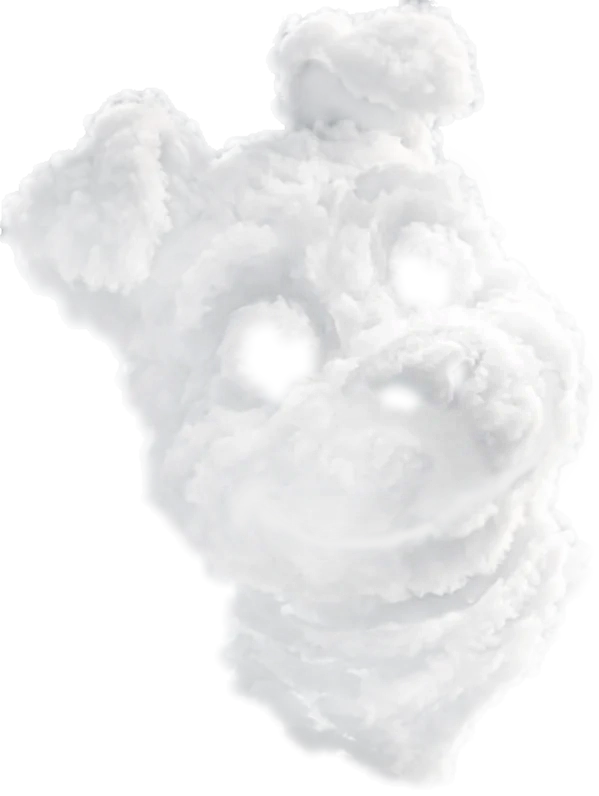
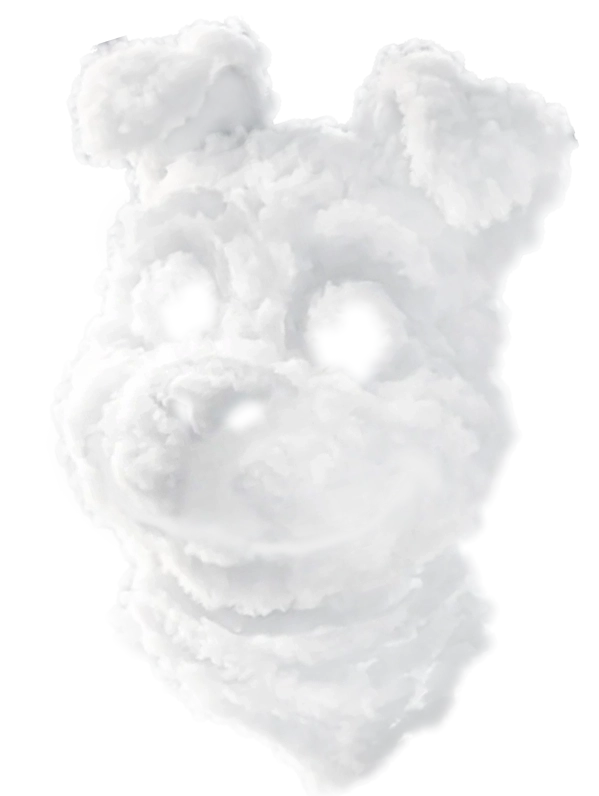
Replace Rita.webp with Sam.webp on cloud 9.

diff --git a/index.html b/index.html
@@ -7,7 +7,7 @@
   <meta name="apple-mobile-web-app-capable" content="yes" />
   <meta name="apple-mobile-web-app-status-bar-style" content="black-translucent" />
   <title>Pick-it</title>
-  <link rel="stylesheet" href="css/game.css?v=cloudloc5" />
+  <link rel="stylesheet" href="css/game.css?v=sam-swap1" />
 </head>
 <body>
   <div id="rotateOverlay" class="rotate-overlay" aria-live="polite">
@@ -96,6 +96,6 @@
       </div>
     </div>
   </div>
-  <script src="js/game.js?v=cloudloc6"></script>
+  <script src="js/game.js?v=sam-swap1"></script>
 </body>
 </html>

diff --git a/web/index.html b/web/index.html
@@ -7,7 +7,7 @@
   <meta name="apple-mobile-web-app-capable" content="yes" />
   <meta name="apple-mobile-web-app-status-bar-style" content="black-translucent" />
   <title>Pick-it</title>
-  <link rel="stylesheet" href="css/game.css?v=cloudloc5" />
+  <link rel="stylesheet" href="css/game.css?v=sam-swap1" />
 </head>
 <body>
   <div id="rotateOverlay" class="rotate-overlay" aria-live="polite">
@@ -96,6 +96,6 @@
       </div>
     </div>
   </div>
-  <script src="js/game.js?v=cloudloc6"></script>
+  <script src="js/game.js?v=sam-swap1"></script>
 </body>
 </html>

diff --git a/css/game.css b/css/game.css
@@ -2739,11 +2739,12 @@ html.is-touch.game-landscape .slot.reward-rita img.done {
   margin-left: -12px !important;
 }
 
-#field .slot.reward-rita.show-special-reward img.done {
+#field .slot.reward-rita.show-special-reward img.done,
+#field .slot.reward-sam.show-special-reward img.done {
   bottom: calc(
     var(--petard-size) * 0.72 * var(--cloud-field-mul) * var(--cloud-face-bottom-mul, 0.06) - 10px
   ) !important;
-  margin-left: 20px !important;
+  margin-left: 0px !important;
 }
 
 #field .slot.reward-hoppy.show-special-reward img.done {

diff --git a/web/css/game.css b/web/css/game.css
@@ -2739,11 +2739,12 @@ html.is-touch.game-landscape .slot.reward-rita img.done {
   margin-left: -12px !important;
 }
 
-#field .slot.reward-rita.show-special-reward img.done {
+#field .slot.reward-rita.show-special-reward img.done,
+#field .slot.reward-sam.show-special-reward img.done {
   bottom: calc(
     var(--petard-size) * 0.72 * var(--cloud-field-mul) * var(--cloud-face-bottom-mul, 0.06) - 10px
   ) !important;
-  margin-left: 20px !important;
+  margin-left: 0px !important;
 }
 
 #field .slot.reward-hoppy.show-special-reward img.done {

diff --git a/js/game.js b/js/game.js
@@ -18,7 +18,7 @@
     5: "Assets/Hoppy.webp",
     6: "Assets/Peggy.webp",
     8: "Assets/Carrie.webp",
-    9: "Assets/Rita.webp",
+    9: "Assets/Sam.webp",
     11: "Assets/Mole.webp",
   };
 
@@ -44,7 +44,7 @@
   }
 
   /** Bump when character PNGs change (GitHub Pages / browser cache). */
-  const REWARD_ASSET_V = "chars-in-assets";
+  const REWARD_ASSET_V = "chars-sam-swap";
 
   function assetWithCacheBust(path) {
     if (!path) return path;

diff --git a/web/js/game.js b/web/js/game.js
@@ -18,7 +18,7 @@
     5: "Assets/Hoppy.webp",
     6: "Assets/Peggy.webp",
     8: "Assets/Carrie.webp",
-    9: "Assets/Rita.webp",
+    9: "Assets/Sam.webp",
     11: "Assets/Mole.webp",
   };
 
@@ -44,7 +44,7 @@
   }
 
   /** Bump when character PNGs change (GitHub Pages / browser cache). */
-  const REWARD_ASSET_V = "chars-in-assets";
+  const REWARD_ASSET_V = "chars-sam-swap";
 
   function assetWithCacheBust(path) {
     if (!path) return path;
